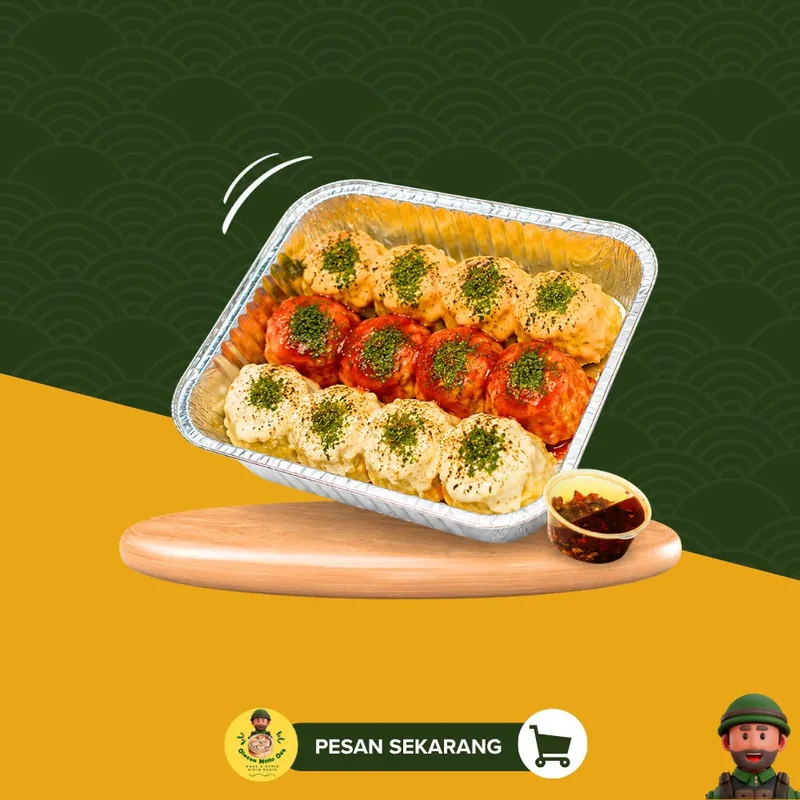
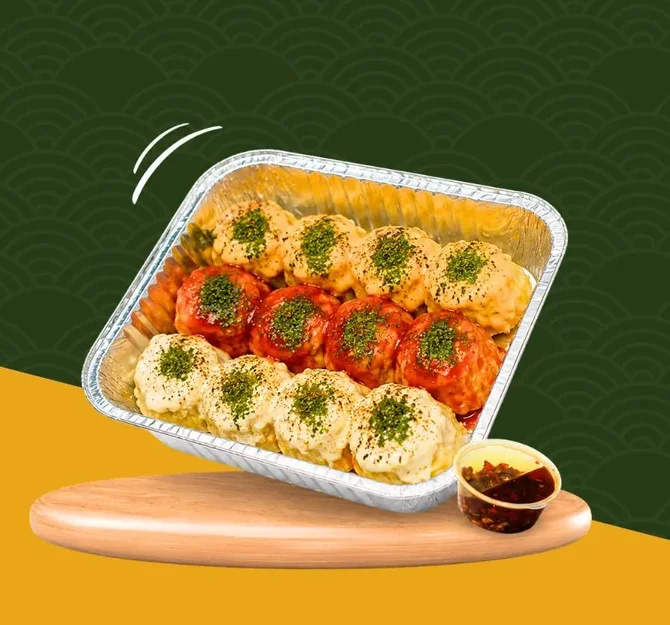
Zoom big melt hero onto dimsum and drop torched badge

diff --git a/src/data/menuData.ts b/src/data/menuData.ts
@@ -7,7 +7,6 @@ export interface MenuItem {
   image: string;
   bgGradient: { from: string; via: string; to: string };
   accentColor: string;
-  torched: boolean;
 }
 
 // Names and descriptions follow the official site's Menu Unggulan section.
@@ -22,7 +21,6 @@ export const MENU_ITEMS: MenuItem[] = [
     // Gradasi memakai palet resmi: Energetic Orange → Olive Fresh → Dek Green.
     bgGradient: { from: '#f4991a', via: '#84994f', to: '#344f1f' },
     accentColor: '#f7b610',
-    torched: true,
   },
   {
     id: 'dimsum-carbonara',
@@ -33,7 +31,6 @@ export const MENU_ITEMS: MenuItem[] = [
     image: '/assets/optimized/carbonara-800.webp',
     bgGradient: { from: '#f7b610', via: '#84994f', to: '#344f1f' },
     accentColor: '#f4991a',
-    torched: false,
   },
   {
     id: 'dimsum-hot-lava-mentai',
@@ -44,7 +41,6 @@ export const MENU_ITEMS: MenuItem[] = [
     image: '/assets/optimized/hot-lava-800.webp',
     bgGradient: { from: '#f4991a', via: '#84994f', to: '#344f1f' },
     accentColor: '#f7b610',
-    torched: false,
   },
   {
     id: 'dimsum-big-melt',
@@ -55,6 +51,5 @@ export const MENU_ITEMS: MenuItem[] = [
     image: '/assets/optimized/bigmelt-800.webp',
     bgGradient: { from: '#f7b610', via: '#84994f', to: '#344f1f' },
     accentColor: '#f4991a',
-    torched: false,
   },
 ];

diff --git a/src/components/KineticShowcase.tsx b/src/components/KineticShowcase.tsx
@@ -1,6 +1,6 @@
 import React, { useState, useEffect } from 'react';
 import { motion, AnimatePresence } from 'framer-motion';
-import { ArrowLeft, ArrowRight, MapPin, Flame } from 'lucide-react';
+import { ArrowLeft, ArrowRight, MapPin } from 'lucide-react';
 import { MenuItem } from '../data/menuData';
 import { FloatingGarnishes } from './FloatingGarnishes';
 import { Link } from 'react-router';
@@ -221,13 +221,6 @@ export const KineticShowcase: React.FC<KineticShowcaseProps> = ({
                       className="w-full h-full object-cover rounded-full drop-shadow-2xl select-none"
                     />
 
-                    {/* Torched Floating Badge on Plate */}
-                    {currentItem.torched && (
-                      <div className="showcase-torched absolute top-3 right-1 bg-[#f4991a] text-white text-xs font-extrabold px-3 py-2 rounded-full shadow-md flex items-center gap-1">
-                        <Flame className="w-3.5 h-3.5 fill-[#f7b610]" />
-                        Panggang harum
-                      </div>
-                    )}
                   </motion.div>
 
                   {/* Floating Garnishes Orbiting the Plate (100% Synchronized With Plate Entrance) */}

diff --git a/src/index.css b/src/index.css
@@ -2628,8 +2628,7 @@ body:has(dialog[open]) { overflow-y: hidden; }
   .showcase-dish { width: 100%; max-width: 260px; }
   .showcase-dish-column { grid-area: dish; padding: 16px 6px; }
   .showcase-plate { border-width: 6px; padding: 2px; }
-  .showcase-torched { top: 6px; right: -6px; font-size: 8px; padding: 5px 6px; gap: 3px; }
-  .showcase-torched svg { width: 11px; height: 11px; }
+
   .showcase-garnishes { inset: 14px; }
   .showcase-garnishes > div > svg { width: 24px; }
   .showcase-controls { padding-inline: 20px; padding-top: 12px; }
